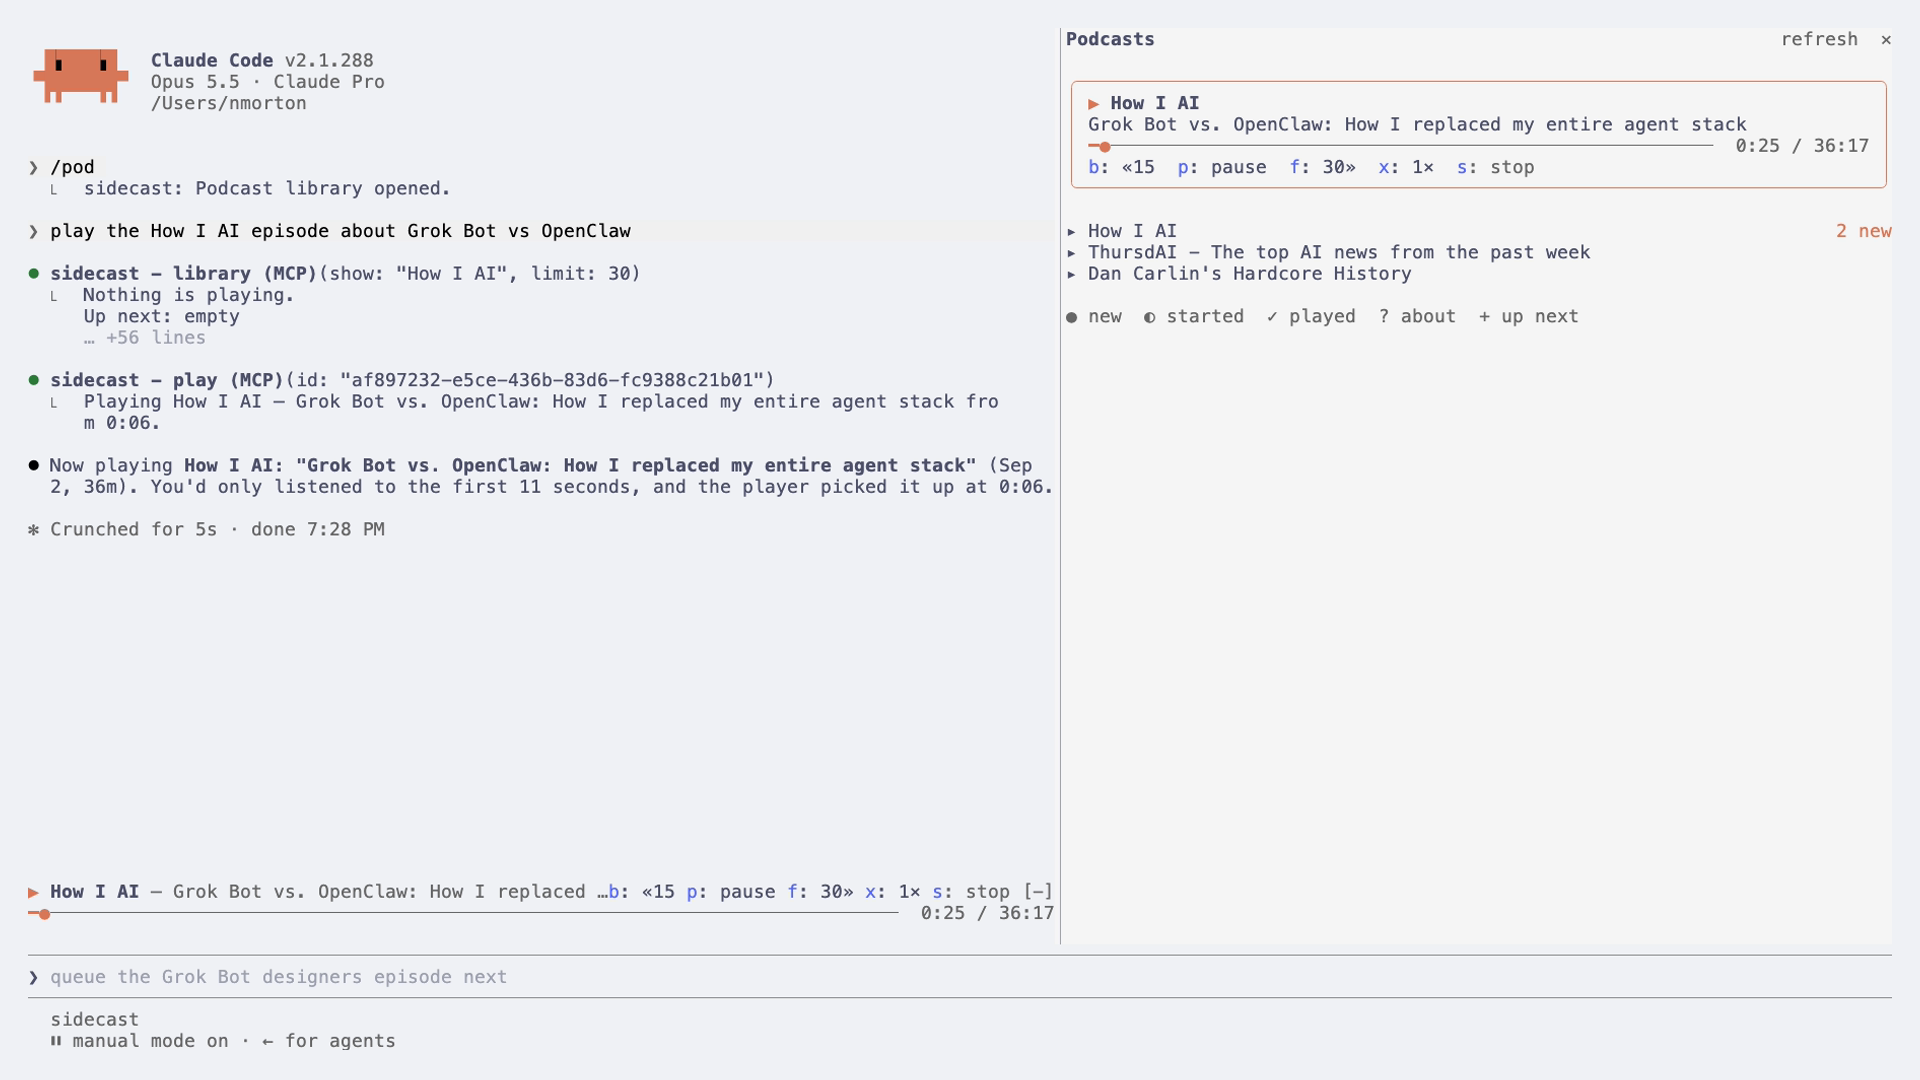
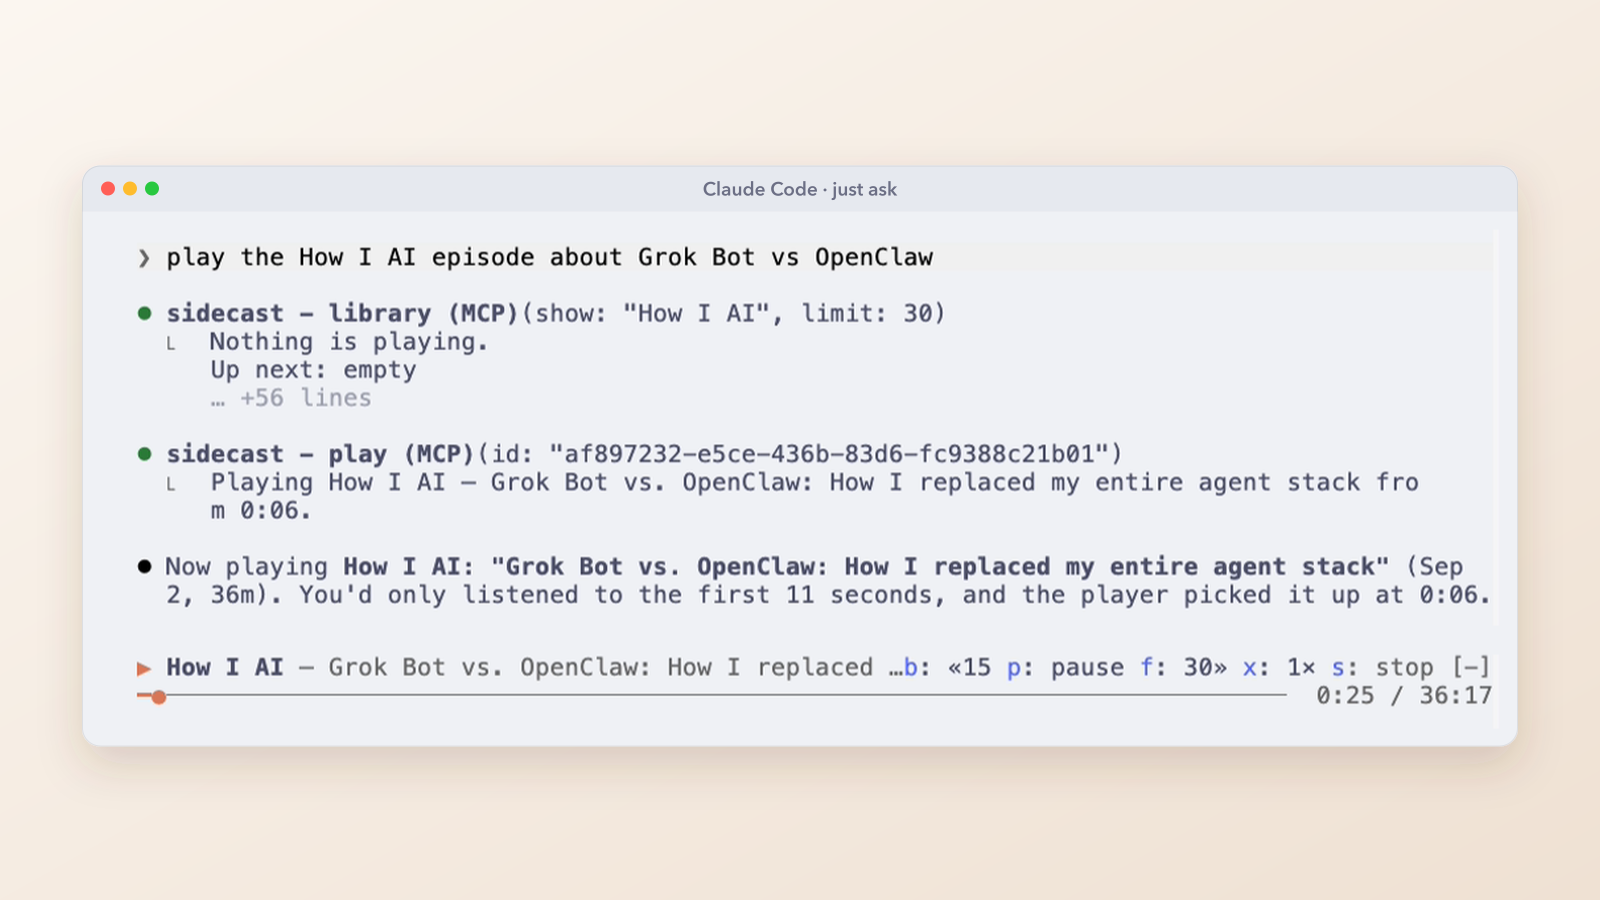
README: the X image set
The top image is the whole Claude Code window after a fresh /pod, with
the pane docked beside the conversation; asking Claude, Up Next and the
summary are the framed cards made for X.

diff --git a/README.md b/README.md
@@ -4,7 +4,7 @@ A podcast player that lives inside [Claude Code](https://claude.com/claude-code)
 browse it in a pane beside your work, and listen with a now-playing bar above the prompt. Or just ask
 Claude: "play the How I AI episode about Grok Bot", "queue the newest ThursdAI after this one".
 
-![sidecast in Claude Code: Claude playing and queueing episodes, the library collapsed in the pane with Up Next, and the now-playing bar above the prompt](docs/images/sidecast-playing.png)
+![Claude Code after /pod: the conversation on the left, the sidecast pane docked on the right with three shows](docs/images/sidecast-fresh-pod.png)
 
 ▶ **[Watch the 30-second demo](docs/sidecast-demo.mp4)**
 
@@ -18,16 +18,16 @@ directory; one match subscribes straight away) or with any RSS feed URL.
 
 **Know before you listen.** Press `?` on an episode and Claude sums it up from the show notes.
 
-<img src="docs/images/sidecast-summary.png" alt="Claude's summary of an episode, unfolded in the pane" width="640">
+<img src="docs/images/sidecast-summary.png" alt="Claude's summary of an episode, unfolded in the pane" width="800">
 
 **Just ask.** Claude can browse your library and play, queue and control episodes. It picks up where
 you left off.
 
-<img src="docs/images/sidecast-ask.png" alt="Asking Claude to play the How I AI episode about Grok Bot; Claude finds it and plays it">
+<img src="docs/images/sidecast-ask.png" alt="Asking Claude to play the How I AI episode about Grok Bot; Claude finds it and plays it, with the now-playing bar below" width="800">
 
 **Up Next.** `+` queues an episode, or ask Claude to; when one finishes, the next one starts.
 
-<img src="docs/images/sidecast-upnext.png" alt="The player card and Up Next in the pane" width="640">
+<img src="docs/images/sidecast-upnext.png" alt="The player card and two episodes in Up Next" width="800">
 
 **A now-playing bar above the prompt,** with keys: `ctrl+x tab`, then `b` back 15 s, `p` pause,
 `f` forward 30 s, `x` speed, `s` stop.
